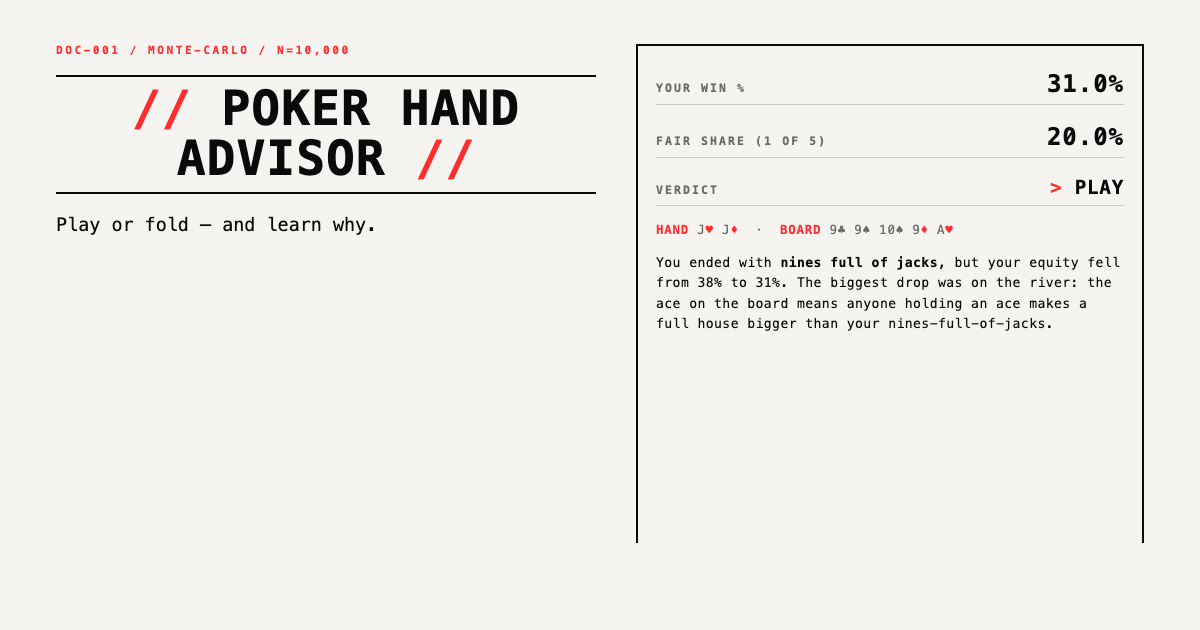
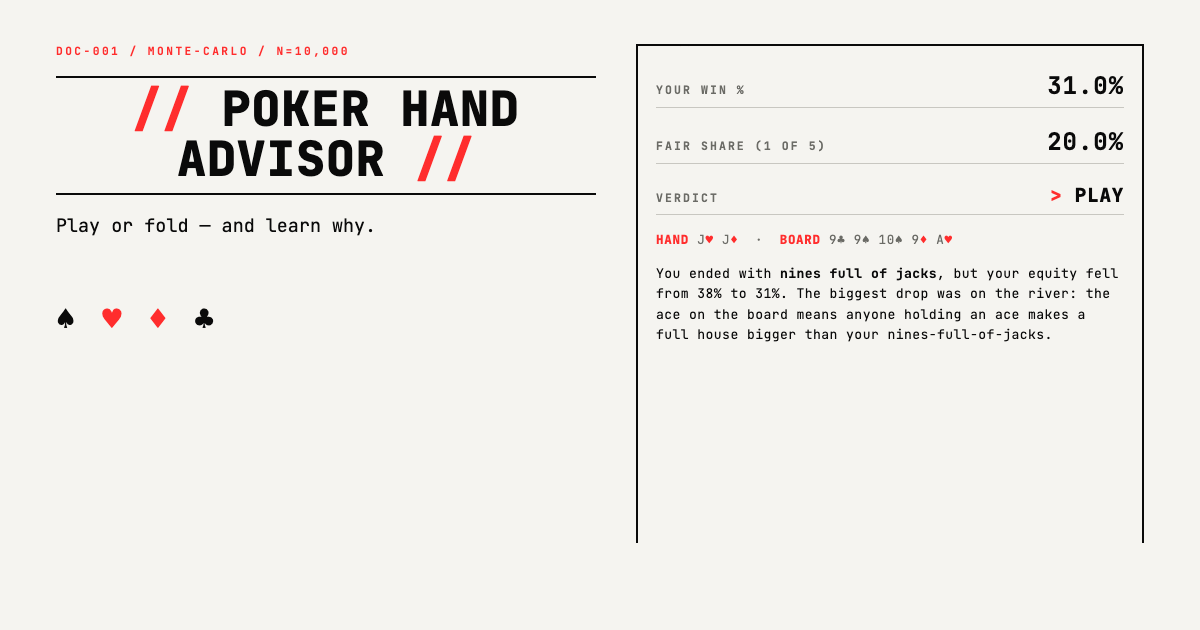
Address review feedback on #20
- index.html: og:image and twitter:image now use absolute URLs
  (raw.githubusercontent.com/felipe/poker/main/og.png). Stricter
  scrapers (Facebook's debugger, LinkedIn, older Slack, X validator)
  require absolute URLs and fail silently on relative paths. The
  raw GitHub URL is stable wherever the site is deployed.
- og-preview.html: a small inline <script> waits for document.fonts.ready
  before flipping <html data-ready="true">, so any tool that respects the
  signal won't screenshot before JetBrains Mono finishes loading from
  Google Fonts. Regen instructions updated to use headless Chrome with
  --virtual-time-budget=4000 so fonts have time to arrive.
- og.png regenerated with the new lockup layout (the suits emblem
  visibly sits below the tagline now — the previous flex
  justify-content: space-between distributed the two children to the
  top and bottom of the column, leaving a big gap and clipping
  inconsistently across renderers).

diff --git a/og-preview.html b/og-preview.html
@@ -6,9 +6,21 @@
   uses the same CSS vocabulary so the social preview stays on-brand.
 
   To regenerate og.png:
-    1. Serve the project (e.g. `python3 -m http.server 8765`)
-    2. Open http://localhost:8765/og-preview.html, screenshot the rendered
-       1200×630 canvas, save as og.png at the repo root.
+    1. Serve the project (e.g. `python3 -m http.server 8765`).
+    2. Make sure you have a network connection — the brutalist theme pulls
+       JetBrains Mono from Google Fonts via @import. The page won't add the
+       `ready` attribute on <html> until `document.fonts.ready` resolves,
+       so a headless screenshot will capture stale typography if it fires
+       before the fonts load.
+    3. Run headless Chrome (waits for the readiness signal):
+         "/Applications/Google Chrome.app/Contents/MacOS/Google Chrome" \
+           --headless --disable-gpu --hide-scrollbars \
+           --window-size=1200,630 \
+           --virtual-time-budget=4000 \
+           --screenshot=og.png \
+           http://localhost:8765/og-preview.html
+       The --virtual-time-budget gives the fonts time to load before the
+       PNG is captured.
 -->
 <html lang="en">
 <head>
@@ -42,11 +54,11 @@
   /* Hide app chrome we don't want in a static preview. */
   #deal, #callActions, #status, #prompt, .settings-section { display: none !important; }
 
-  /* Left column — identity. */
+  /* Left column — identity. Simple stack: positional, not flex-distributed,
+     so headless and live renders look the same. */
   .lockup {
     display: flex;
     flex-direction: column;
-    justify-content: space-between;
     color: var(--ink);
   }
   .doc-line {
@@ -74,6 +86,7 @@
     color: var(--ink);
   }
   .suits-emblem {
+    margin-top: 36px;
     font-size: 2rem;
     letter-spacing: 0.12em;
   }
@@ -180,5 +193,15 @@
   </p>
 </div>
 
+<script>
+  // Mark the document ready only after webfonts have loaded so a headless
+  // screenshot (or any scraper that respects this signal) doesn't capture
+  // stale typography. JetBrains Mono is pulled from Google Fonts by the
+  // brutalist theme; without this gate the PNG can render in the fallback
+  // monospace stack before the network round-trip finishes.
+  document.fonts.ready.then(() => {
+    document.documentElement.setAttribute("data-ready", "true");
+  });
+</script>
 </body>
 </html>

diff --git a/index.html b/index.html
@@ -7,15 +7,18 @@
 <meta name="description" content="Play or fold — and learn why.">
 
 <!-- Social preview (iMessage / Slack / X / LinkedIn / GitHub).
-     iMessage and Slack honor Open Graph; X reads the twitter:* duplicates. -->
+     iMessage and Slack honor Open Graph; X reads the twitter:* duplicates.
+     The image URL is absolute (and points at raw.githubusercontent.com so
+     it's stable wherever the site is deployed) — many scrapers require
+     absolute URLs for og:image and fail silently on relative paths. -->
 <meta property="og:type" content="website">
 <meta property="og:title" content="Poker Hand Advisor">
 <meta property="og:description" content="Play or fold — and learn why.">
-<meta property="og:image" content="og.png">
+<meta property="og:image" content="https://raw.githubusercontent.com/felipe/poker/main/og.png">
 <meta name="twitter:card" content="summary_large_image">
 <meta name="twitter:title" content="Poker Hand Advisor">
 <meta name="twitter:description" content="Play or fold — and learn why.">
-<meta name="twitter:image" content="og.png">
+<meta name="twitter:image" content="https://raw.githubusercontent.com/felipe/poker/main/og.png">
 
 <link rel="stylesheet" href="css/themes.css">
 <link rel="stylesheet" href="css/base.css">